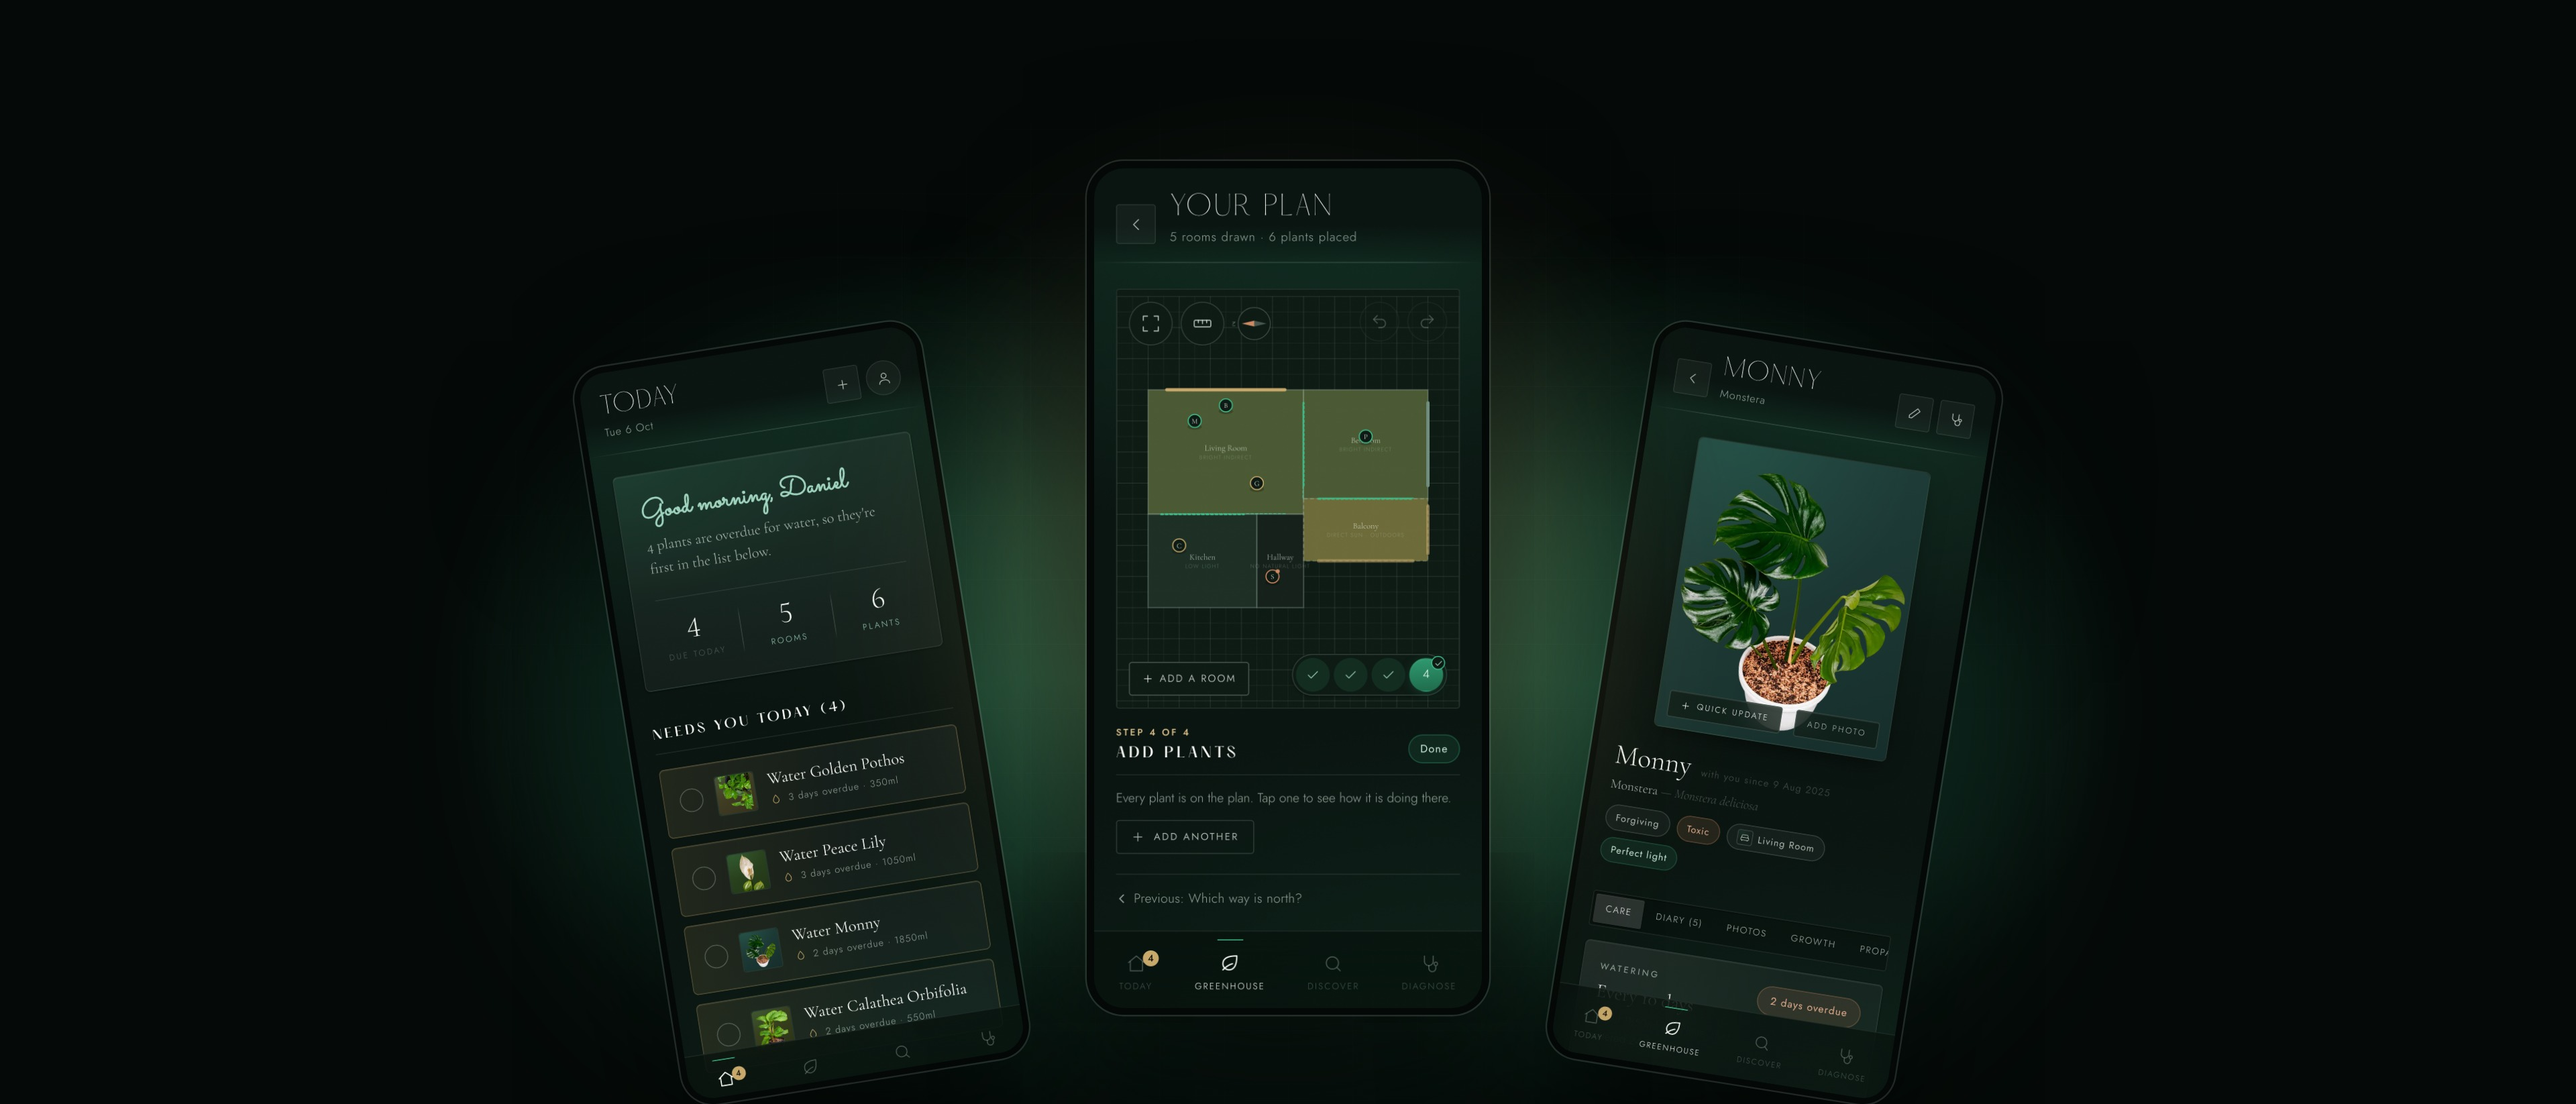
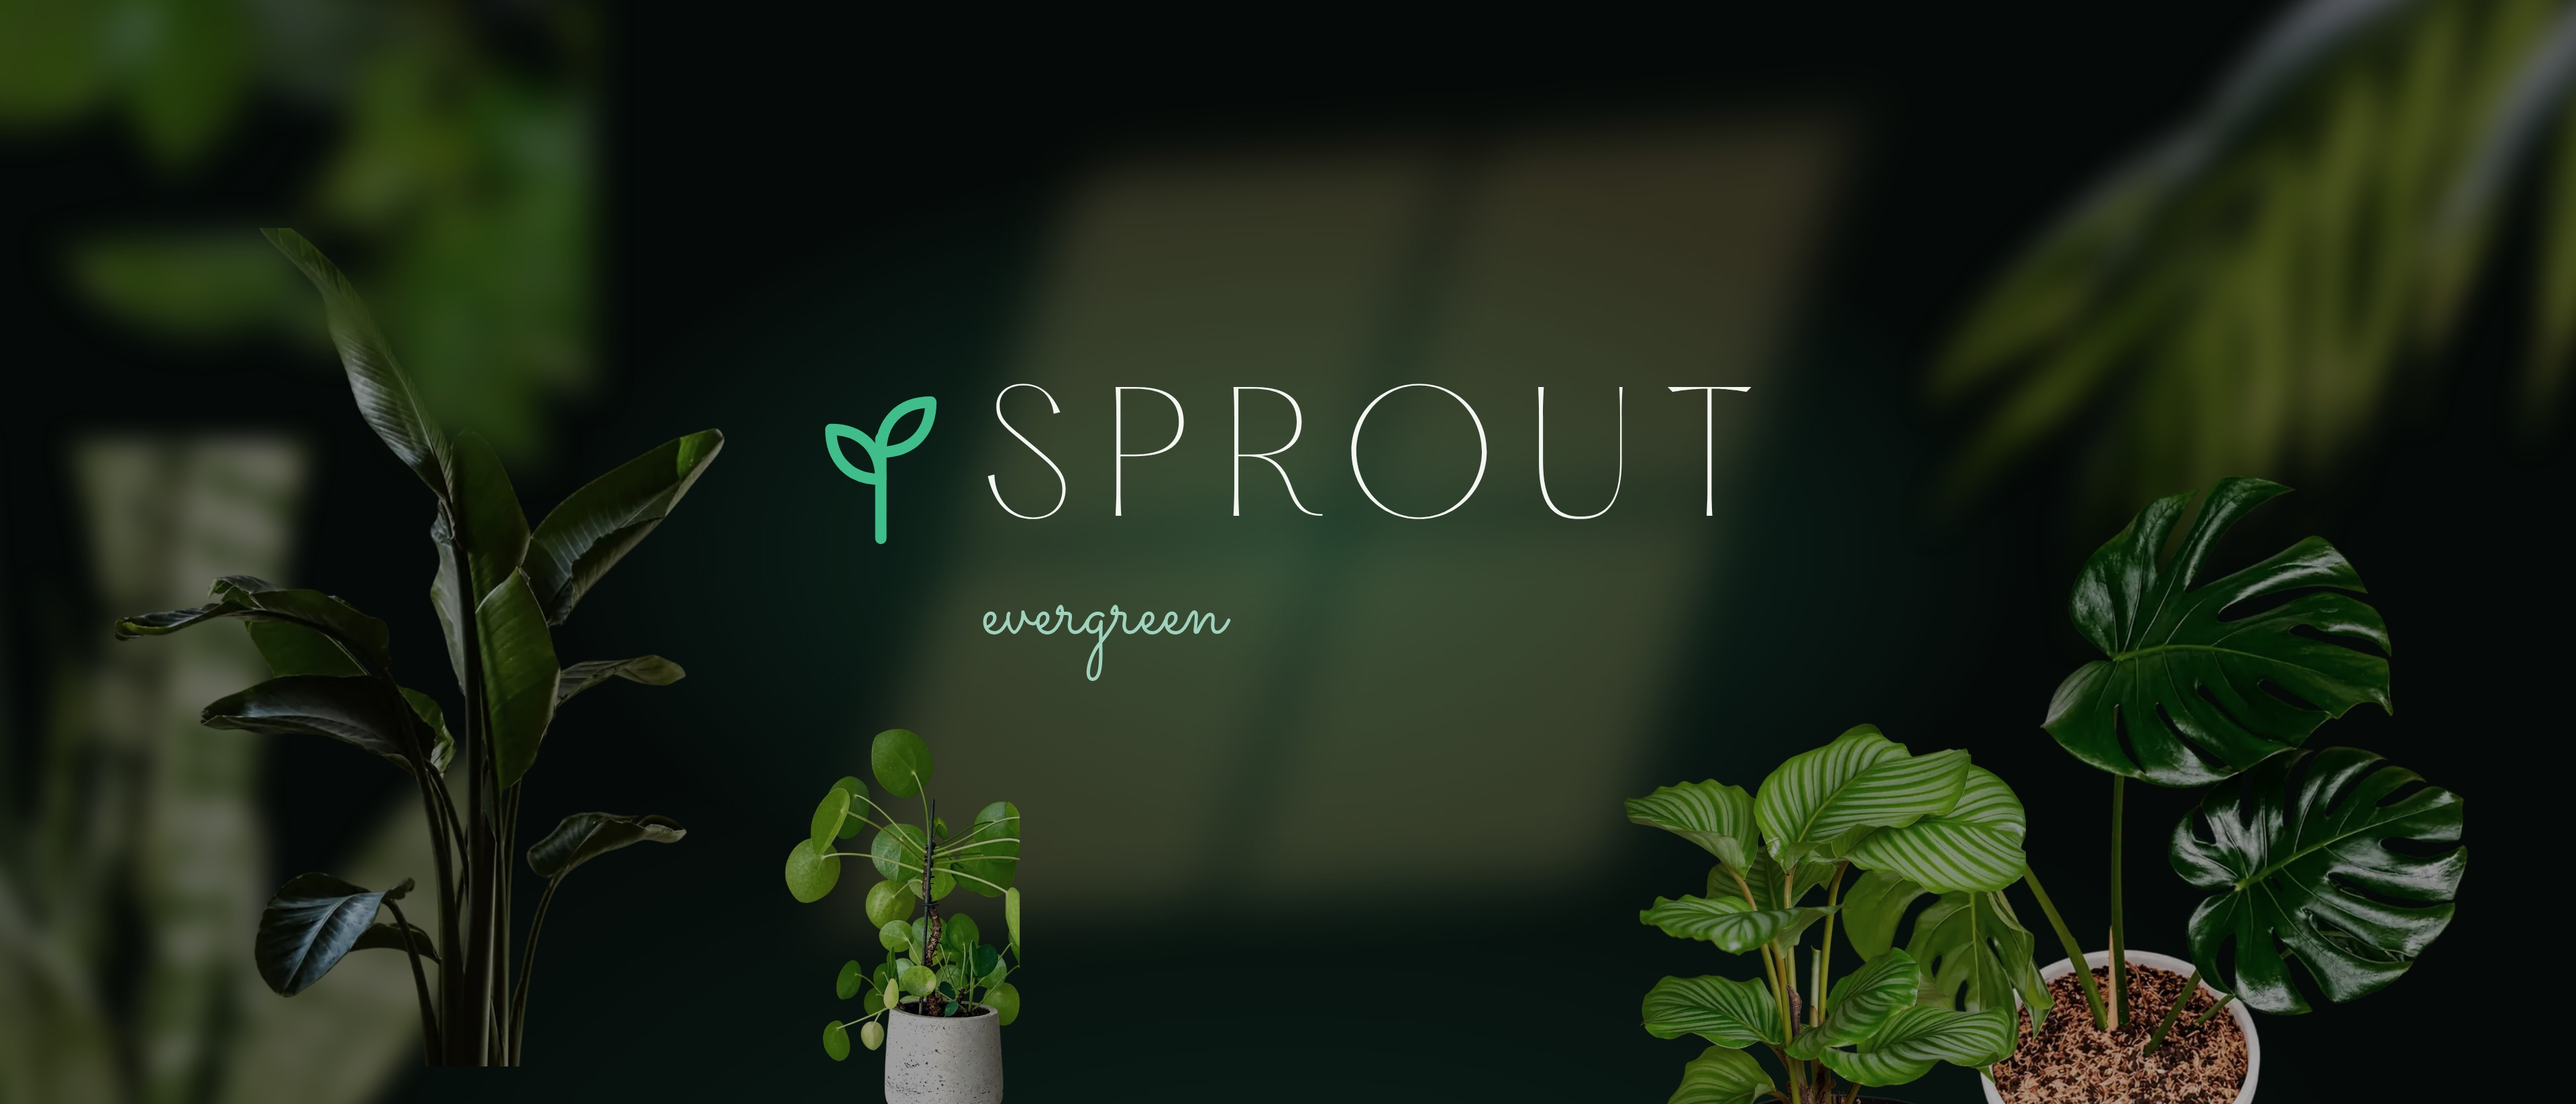
App Store header: a scene, not screens
The header sits directly above the screenshots, so three more phones
repeated them. It is now the lockup in a window's light, with houseplants
from the species photographs framing the corners, the nearest out of
focus. The lockup and the light are in the middle third, which every crop
keeps; the plants are what a crop may lose.

Claude-Session: https://claude.ai/code/session_01MVGi96fP3hAPpPgrbgRtbq

diff --git a/marketing/store-shots/promo.html b/marketing/store-shots/promo.html
@@ -8,7 +8,7 @@
      raw/, so they read as one set with the screenshots. Every length is a
      multiple of --u (the canvas width over 1920).
 
-     The header carries no words. Apple crops it differently by device and
+     The header carries the lockup and nothing else. Apple crops it differently by device and
      orientation and publishes the safe area only inside its templates, so
      everything that matters sits in the middle third, where every crop
      keeps it; the name and icon sit under it on the page anyway. The
@@ -17,6 +17,7 @@
 <style>
 @font-face{font-family:'PP Hatton';src:url('/css/fonts/hatton-ultralight.woff2') format('woff2');font-weight:200;font-display:block}
 @font-face{font-family:'Jost';src:url('/css/fonts/jost-var.woff2') format('woff2');font-weight:300 500;font-display:block}
+@font-face{font-family:'Sacramento';src:url('/css/fonts/sacramento-400.woff2') format('woff2');font-weight:400;font-display:block}
 @font-face{font-family:'Cormorant';src:url('/css/fonts/cormorant-var.woff2') format('woff2');font-weight:300 700;font-display:block}
 :root{ --bg:#050A08; --ink:#F3F6F1; --ink2:rgba(228,240,232,.74); --glow:#3FBE8B;
        --leaf:#2F9A70; --sun:#E0C47A; --hair:rgba(214,237,226,.14); --u:1px; }
@@ -36,6 +37,21 @@ html,body{background:var(--bg);overflow:hidden}
 h1{font-family:'PP Hatton';font-weight:200;font-size:calc(var(--u)*116);line-height:1.06;color:var(--ink);margin-top:calc(var(--u)*30);text-wrap:balance}
 h1 em{font-style:normal;color:var(--glow)}
 .sub{font-family:'Cormorant';font-weight:500;font-size:calc(var(--u)*48);line-height:1.3;color:var(--ink2);margin-top:calc(var(--u)*34)}
+/* The header: a room at dusk rather than a screen. Window light falls
+   across the middle, houseplants frame the corners, the near ones out of
+   focus, and the lockup sits in the light. Geometry of the lockup is the
+   feature graphic's and the site's, from one --wm. */
+.plant{position:absolute;pointer-events:none}
+.plant img{display:block;width:100%}
+.win{position:absolute;display:grid;grid-template-columns:1fr 1fr;grid-template-rows:1fr 1fr;gap:calc(var(--u)*16);
+     transform:skewX(-22deg) rotate(-4deg);filter:blur(calc(var(--u)*22))}
+.win i{background:rgba(224,196,122,.2);border-radius:calc(var(--u)*6)}
+.lockup{position:absolute;--wm:calc(var(--u)*120);--mk:calc(var(--wm)*0.96);--mkw:calc(var(--mk)*0.7647);--gap:calc(var(--wm)*0.26)}
+.wm-row{display:flex;align-items:center;gap:var(--gap)}
+.m{width:var(--mkw);height:var(--mk);color:var(--glow);flex:none}
+.m svg{width:100%;height:100%;display:block}
+.word{font-family:'PP Hatton';font-weight:200;font-size:var(--wm);letter-spacing:.2em;text-transform:uppercase;line-height:1;color:var(--ink);margin-right:-.2em}
+.script{font-family:'Sacramento';font-size:calc(var(--wm)*0.56);color:#9FD3BE;line-height:1;margin-top:calc(var(--wm)*0.12);padding-left:calc(var(--mkw) + var(--gap))}
 </style>
 <div id="v"><div class="layer" id="bloom"></div><div class="layer grid" id="grid"></div><div class="layer vig"></div></div>
 <script>
@@ -73,14 +89,48 @@ h1 em{font-style:normal;color:var(--glow)}
 
   const bloom = document.getElementById('bloom'), grid = document.getElementById('grid');
   if (KIND === 'header') {
-    // Three phones fanned from the foot, the plan in front: the home and
-    // its light is the one idea nobody else's listing shows.
-    bloom.style.background = 'radial-gradient(' + px(900) + ' ' + px(520) + ' at 50% 62%,rgba(47,154,112,.36),transparent 70%)';
-    grid.style.webkitMaskImage = 'radial-gradient(' + px(900) + ' ' + px(560) + ' at 50% 55%,#000,transparent 80%)';
-    const cw = 300, sw = 262;
-    phone('today', 960 - cw / 2 - 300, 250, sw, -9, 'leaf');
-    phone('plant', 960 - cw / 2 + cw + 300 - sw, 250, sw, 9, 'leaf');
-    phone('plan', 960 - cw / 2, 120, cw, 0, 'sun');
+    // Dusk in a room: a low green glow, a window's light thrown across the
+    // middle, and the plants in the corners darker than the light, the
+    // nearest blurred as if in front of the lens. Everything that must
+    // survive a crop (the lockup and the light under it) is in the middle
+    // third; the plants are what a crop is allowed to lose.
+    bloom.style.background = 'radial-gradient(' + px(760) + ' ' + px(420) + ' at 50% 50%,rgba(47,154,112,.30),transparent 72%),' +
+      'radial-gradient(' + px(1200) + ' ' + px(700) + ' at 50% 120%,rgba(47,154,112,.16),transparent 70%)';
+    grid.style.display = 'none';
+    const win = document.createElement('div');
+    win.className = 'win';
+    win.innerHTML = '<i></i><i></i><i></i><i></i>';
+    Object.assign(win.style, { left: px(720), top: px(110), width: px(560), height: px(560) });
+    v.appendChild(win);
+    // [species, left, top, width, brightness, blur, flip]
+    const PLANTS = [
+      ['dracaena-trifasciata', -60, 330, 420, .55, 10, false],
+      ['strelitzia-nicolai', 40, 170, 500, .6, 0, false],
+      ['howea-forsteriana', 1440, -260, 640, .5, 12, true],
+      ['epipremnum-aureum', -120, -330, 560, .45, 14, false],
+      ['monstera-deliciosa', 1330, 300, 520, .7, 0, true],
+      ['pilea-peperomioides', 520, 540, 240, .62, 0, false],
+      ['calathea-orbifolia', 1210, 530, 300, .6, 0, false]
+    ];
+    PLANTS.forEach(function (d) {
+      const el = document.createElement('div');
+      el.className = 'plant';
+      el.innerHTML = '<img src="/img/species/' + d[0] + '.webp">';
+      Object.assign(el.style, { left: px(d[1]), top: px(d[2]), width: px(d[3]),
+        filter: 'brightness(' + d[4] + ') saturate(.85)' + (d[5] ? ' blur(' + px(d[5]) + ')' : ''),
+        transform: d[6] ? 'scaleX(-1)' : '' });
+      v.appendChild(el);
+    });
+    const lock = document.createElement('div');
+    lock.className = 'lockup';
+    lock.innerHTML = '<div class="wm-row"><span class="m"><svg viewBox="24 20 52 68" fill="none" stroke="currentColor" stroke-width="5" stroke-linecap="round" stroke-linejoin="round">' +
+      '<path d="M50 84V40"/><path d="M50 58C36 58 28 49 28 36c14 0 22 9 22 22Z"/><path d="M50 46c14 0 22-9 22-22-14 0-22 9-22 22Z"/></svg></span>' +
+      '<div class="word">Sprout</div></div><div class="script">evergreen</div>';
+    v.appendChild(lock);
+    document.fonts.ready.then(function () {
+      lock.style.left = px((1920 - lock.offsetWidth / U) / 2);
+      lock.style.top = px((HU - lock.offsetHeight / U) / 2 - 20);
+    });
   } else {
     bloom.style.background = 'radial-gradient(' + px(900) + ' ' + px(800) + ' at 70% 50%,rgba(47,154,112,.34),transparent 70%),' +
       'radial-gradient(' + px(900) + ' ' + px(600) + ' at 15% -10%,rgba(47,154,112,.14),transparent 70%)';
